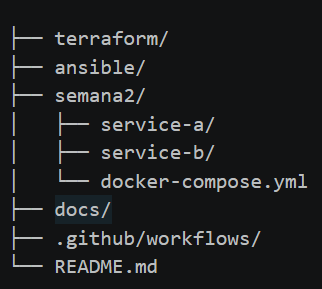
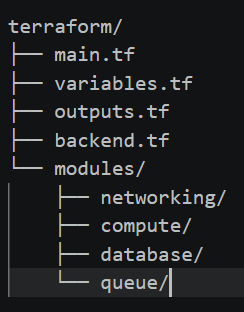
final

Changed region(s): [[0.0287, 0.0623, 0.9467, 0.9654], [0.6885, 0.218, 0.8033, 0.3114], [0.7746, 0.6851, 0.8033, 0.7163]]

diff --git a/docs/deployment.md b/docs/deployment.md
@@ -6,7 +6,7 @@ Antes da implementação é necessário possuir:
 
 * Conta AWS
 * Terraform instalado
-* Docker instalado
+* Docker e Docker Compose instalados
 * Git instalado
 
 ---
@@ -69,24 +69,28 @@ docker compose up --build
 
 O processo de implementação segue os seguintes passos:
 
-1. Inicialização do Terraform.
-2. Validação da configuração.
-3. Geração do plano.
-4. Aplicação das alterações.
-5. Disponibilização dos outputs.
+1. Inicialização dos módulos Terraform
+2. Validação da infraestrutura
+3. Construção das imagens Docker
+4. Publicação das imagens no GitHub Container Registry 
+5. Aplicação das alterações na AWS
+6. Disponibilização dos outputs Terraform
 
 ---
 
 ## Deploy Automático
 
-O projeto utiliza GitHub Actions para automatizar o processo de deploy.
+O projeto utiliza GitHub Actions para automatizar o processo de deploy
 
 Sempre que é realizado um push para a branch main, são executadas as seguintes tarefas:
 
-1. Autenticação AWS através de OIDC.
-2. Validação da infraestrutura Terraform.
-3. Aplicação automática das alterações.
-4. Atualização dos recursos AWS.
+1. Autenticação AWS através de OIDC
+2. Login no GitHub Container Registry 
+3. Construção das imagens Docker dos serviços
+4. Publicação das imagens Docker no GHCR
+5. Inicialização e validação do Terraform
+6. Aplicação automática da infraestrutura AWS
+7. Disponibilização dos outputs Terraform
 
 ---
 
@@ -111,3 +115,49 @@ rds_endpoint
 queue_url
 vpc_id
 ```
+
+---
+
+## Registo de Containers
+
+As imagens Docker dos serviços são automaticamente construídas e publicadas no GitHub Container Registry (GHCR) através do pipeline GitHub Actions
+
+Serviços publicados:
+
+```text
+service-a
+service-b
+```
+
+Esta abordagem permite reutilizar imagens já construídas durante futuras implementações e segue as boas práticas de CI/CD para aplicações contentorizadas
+
+---
+
+## Organização da Infraestrutura
+
+A infraestrutura foi organizada através de módulos Terraform independentes:
+
+* Networking
+* Compute
+* Database
+* Queue
+
+Esta abordagem melhora a reutilização, manutenção e escalabilidade do código, seguindo as boas práticas de Infrastructure as Code apresentadas ao longo da unidade curricular
+
+---
+
+## Tecnologias Utilizadas
+
+* AWS
+* Terraform Modules
+* Amazon VPC
+* Amazon EC2
+* Amazon RDS PostgreSQL
+* Amazon SQS
+* Docker
+* Docker Compose
+* GitHub Container Registry (GHCR)
+* GitHub Actions
+* Ansible
+
+---

diff --git a/README.md b/README.md
@@ -9,7 +9,7 @@
 
 ## Descrição do Projeto
 
-Este projeto foi desenvolvido no âmbito da unidade curricular de Cloud  e demonstra a implementação de uma infraestrutura cloud utilizando serviços AWS e Infrastructure as Code 
+Este projeto foi desenvolvido no âmbito da unidade curricular de Cloud e demonstra a implementação de uma infraestrutura cloud utilizando serviços AWS e Infrastructure as Code 
 
 Toda a estrutura é criada automaticamente através do Terraform e gerida através de um pipeline CI/CD implementado com GitHub Actions
 
@@ -42,7 +42,6 @@ O projeto inclui:
 ## Estrutura do Projeto
 
 ![Estrutura](docs/imagens/estrutura.png)
-
 
 ## Execução Local
 
@@ -151,3 +150,9 @@ A Figura apresenta uma visão geral da arquitetura implementada. A solução uti
 
 
 ![Arquitetura](docs/imagens/arquitetura.png)
+
+# Destroy 
+4.34min
+
+# Apply
+5.7min

diff --git a/docs/architecture.md b/docs/architecture.md
@@ -80,6 +80,7 @@ Durante o desenvolvimento do projeto foram tomadas as seguintes decisões:
 * Utilização de Amazon SQS para comunicação assíncrona
 * Utilização de Docker para execução da aplicação
 * Utilização de Ansible para configuração da EC2
+* Utilização de Terraform Modules para separação lógica da infraestrutura
 
 ---
 
